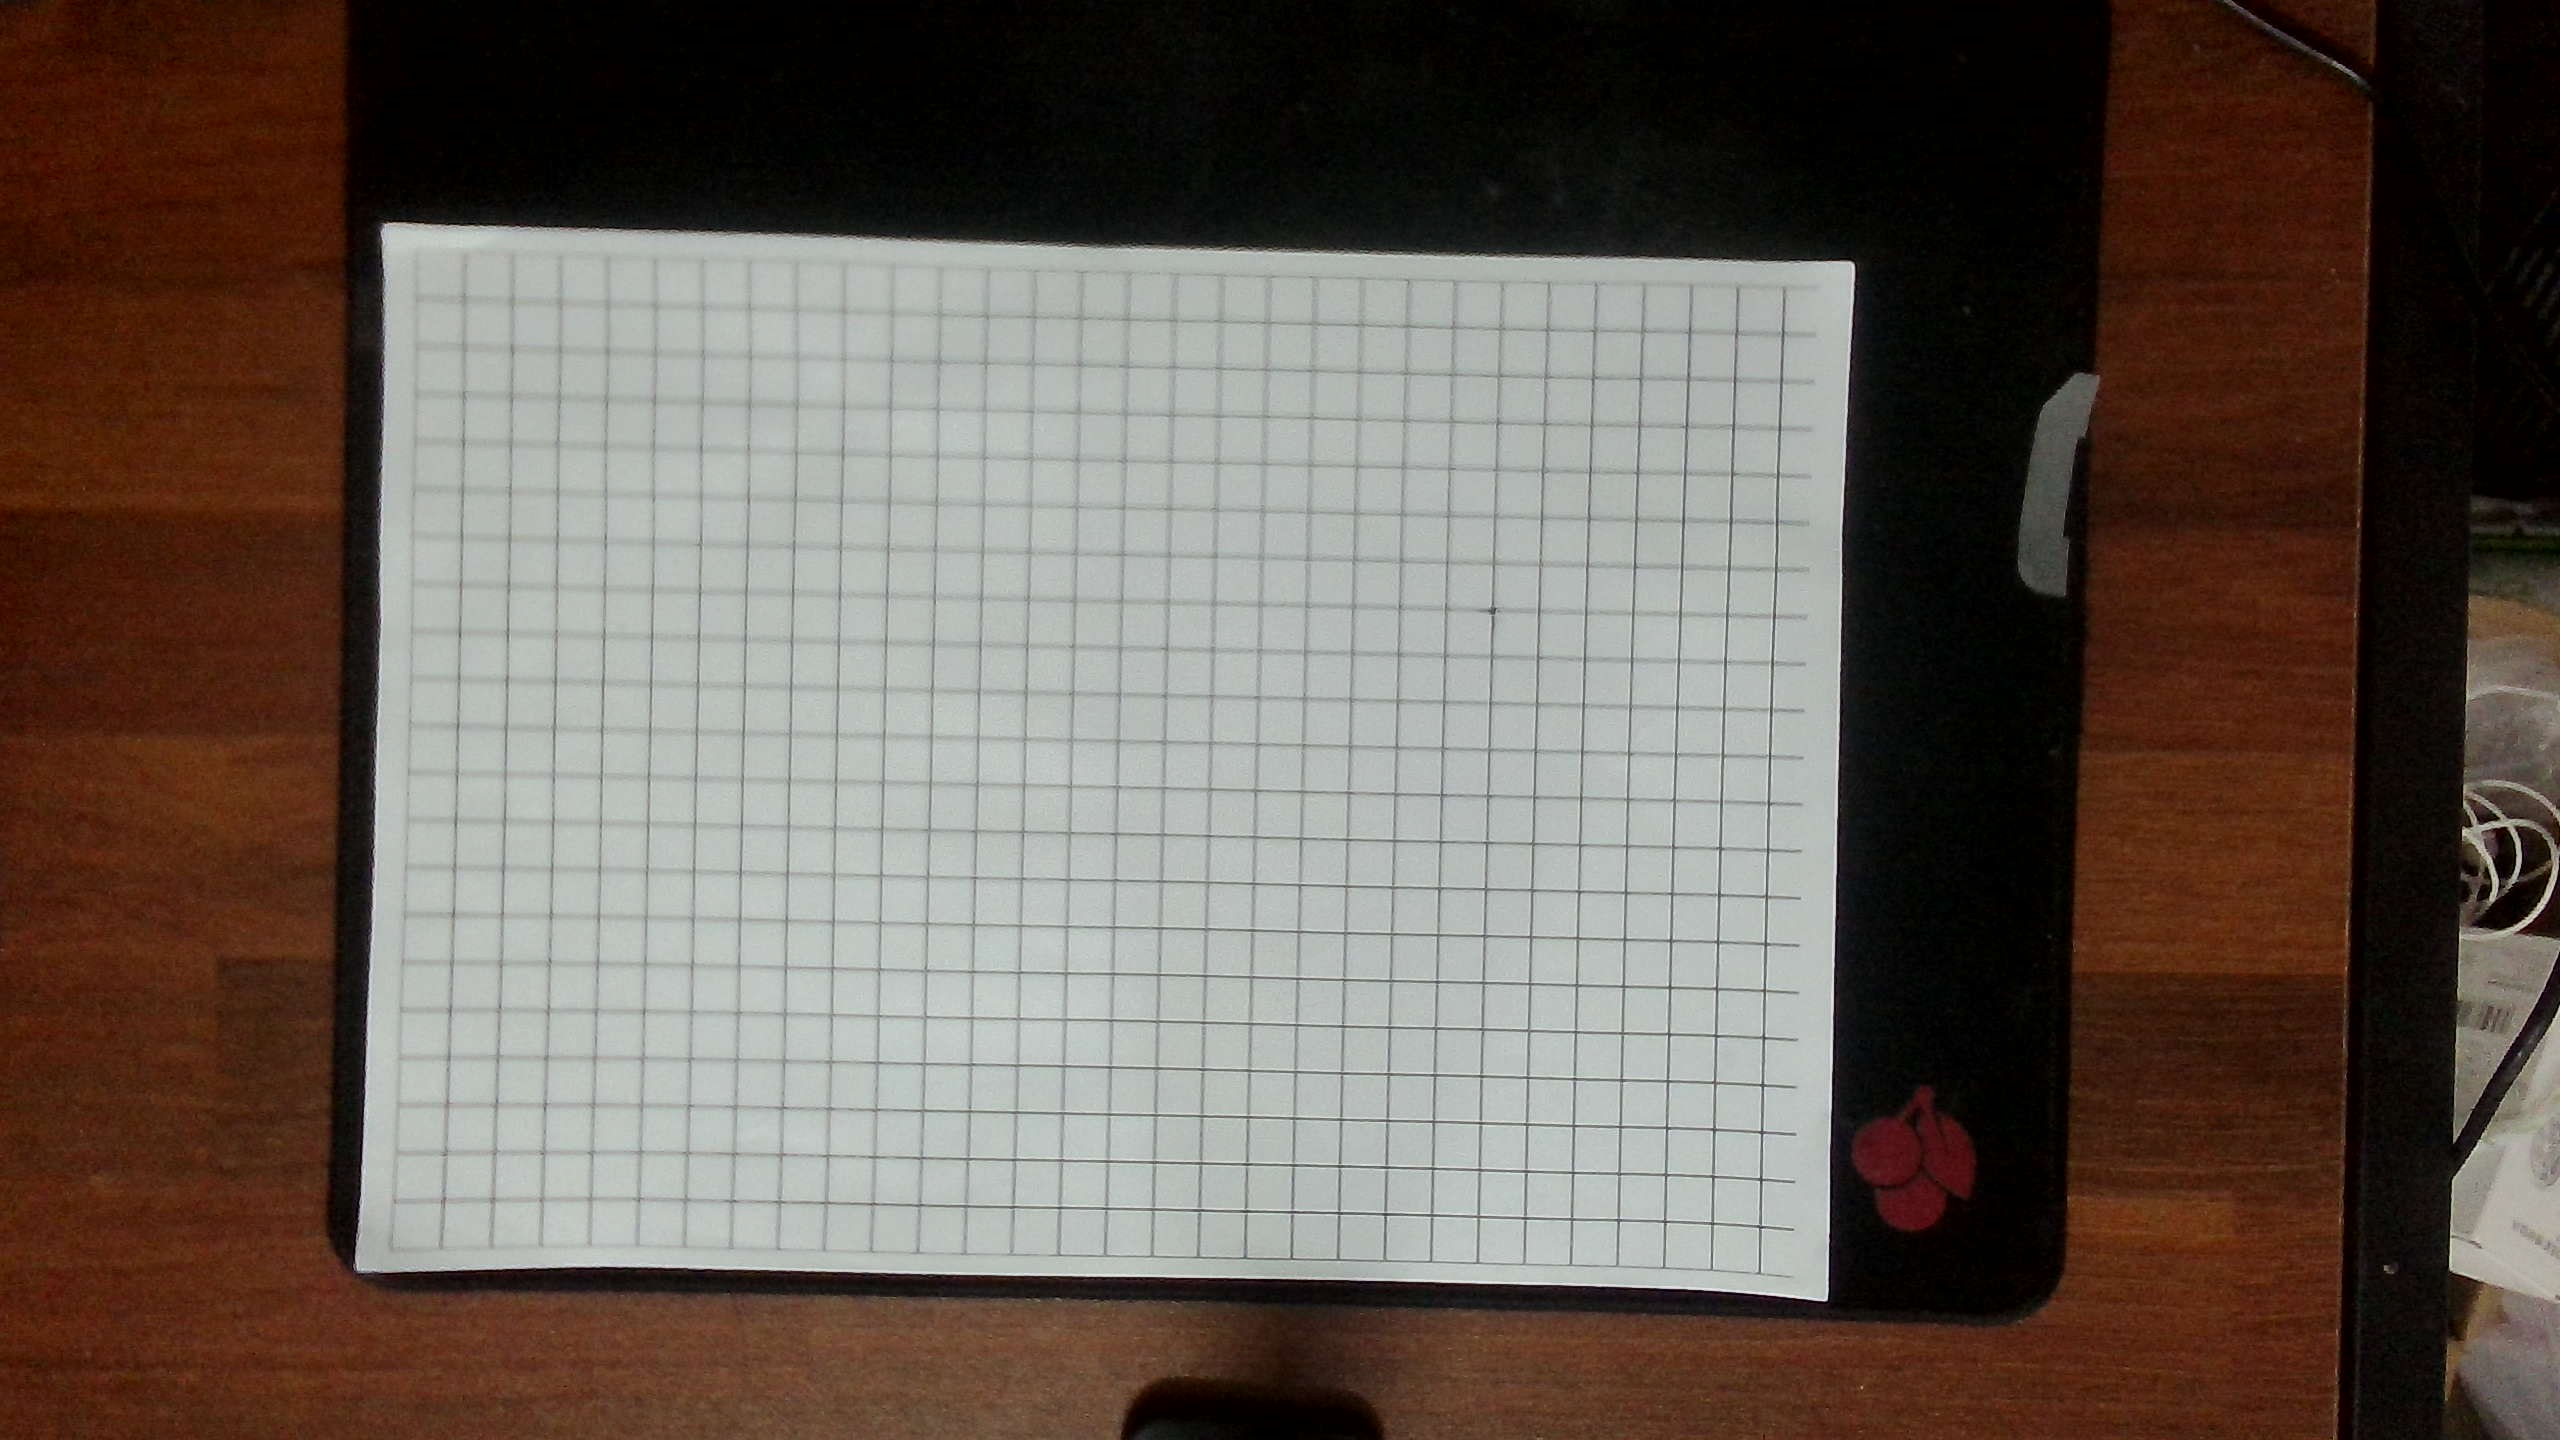
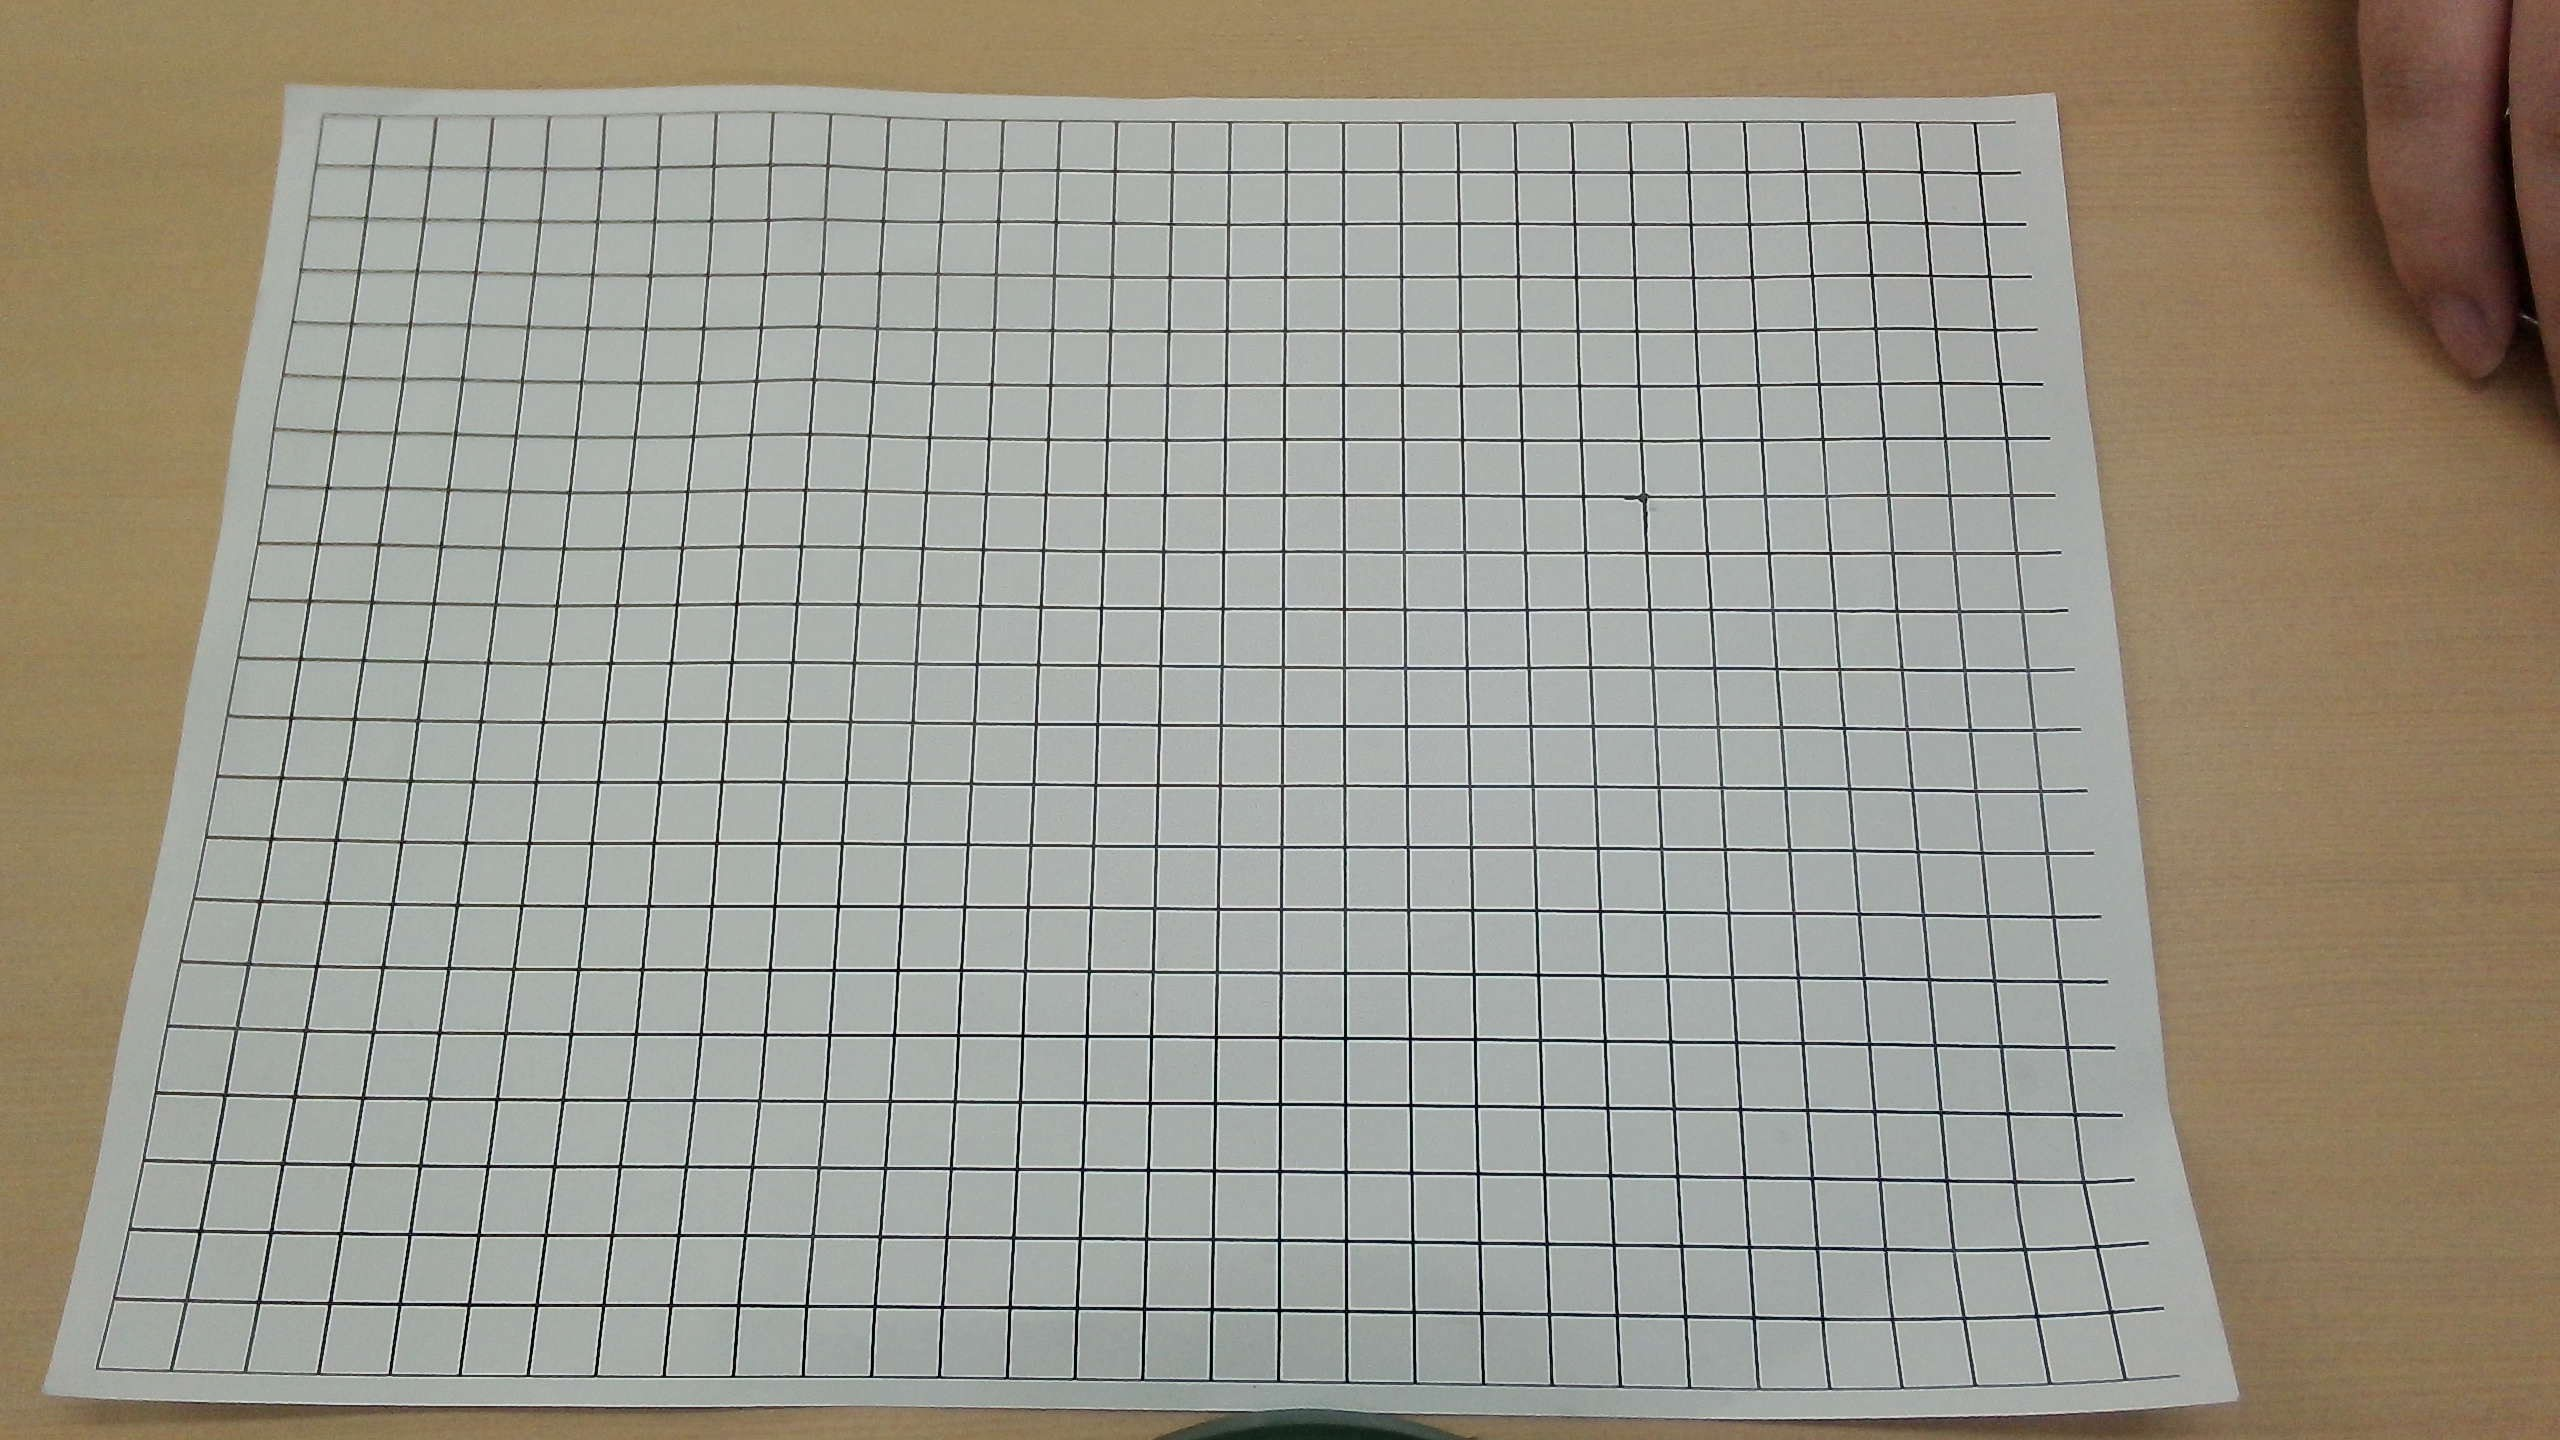
Add files via upload

diff --git a/mouse/camera/solve_pnp_pose.py b/mouse/camera/solve_pnp_pose.py
@@ -16,39 +16,53 @@ def main():
     # ===== 这里改成你自己点出来的像素点（建议至少 8~12 个）=====
     # 顺序必须和 object_points 一一对应
     image_points = np.array([
-        [603.0, 726.0],
-        [790.0, 731.0],
-        [978.0, 735.0],
-        [1210.0, 740.0],
+        # 第1列（x≈690）从下到上
+    [690, 1188],
+    [691, 998],
+    [695, 801],
+    [690, 606],
 
-        [606.0, 536.0],
-        [795.0, 545.0],
-        [985.0, 550.0],
-        [1216.0, 553.0],
+    # 第2列（x≈886）
+    [886, 1191],
+    [888, 995],
+    [890, 803],
+    [888, 610],
 
-        [608.0, 303.0],
-        [796.0, 305.0],
-        [986.0, 315.0],
-        [1223.0, 320.0],
+    # 第3列（x≈1081）
+    [1081, 1191],
+    [1081, 1000],
+    [1081, 803],
+    [1085, 610],
+
+    # 第4列（x≈1275）
+    [1275, 1193],
+    [1278, 1001],
+    [1276, 806],
+    [1278, 610],
     ], dtype=np.float32)
 
     # ===== 对应真实世界坐标（单位统一用 cm）=====
     # 这里示例是假设网格平面 z=0
     object_points = np.array([
-        [4.0, 11.0, 0.0],
-        [8.0, 11.0, 0.0],
-        [12.0, 11.0, 0.0],
-        [17.0, 11.0, 0.0],
+       [0, 0, 0],
+       [0, 4, 0],
+       [0, 8, 0],
+       [0, 12, 0],
 
-        [4.0, 15.0, 0.0],
-        [8.0, 15.0, 0.0],
-        [12.0, 15.0, 0.0],
-        [17.0, 15.0, 0.0],
+       [4, 0, 0],
+       [4, 4, 0],
+       [4, 8, 0],
+       [4, 12, 0],
 
-        [4.0, 20.0, 0.0],
-        [8.0, 20.0, 0.0],
-        [12.0, 20.0, 0.0],
-        [17.0, 20.0, 0.0],
+       [8, 0, 0],
+       [8, 4, 0],
+       [8, 8, 0],
+       [8, 12, 0],
+
+       [12, 0, 0],
+       [12, 4, 0],
+       [12, 8, 0],
+       [12, 12, 0],
     ], dtype=np.float32)
 
     if len(image_points) != len(object_points):

diff --git a/mouse/camera/compute_homography.py b/mouse/camera/compute_homography.py
@@ -1,18 +1,54 @@
 import cv2
 import numpy as np
 
+# ===== 你点的12个像素点（替换这里）=====
 img_pts = np.array([
-    [418, 251],   # 左上
-    [391, 1246],  # 左下
-    [1785, 288],   # 右上
-    [1760, 1268]   # 右下
-], dtype=np.float32)
+        # 第1列（x≈690）从下到上
+    [690, 1188],
+    [691, 998],
+    [695, 801],
+    [690, 606],
 
+    # 第2列（x≈886）
+    [886, 1191],
+    [888, 995],
+    [890, 803],
+    [888, 610],
+
+    # 第3列（x≈1081）
+    [1081, 1191],
+    [1081, 1000],
+    [1081, 803],
+    [1085, 610],
+
+    # 第4列（x≈1275）
+    [1275, 1193],
+    [1278, 1001],
+    [1276, 806],
+    [1278, 610],
+    ], dtype=np.float32)
+
+# ===== 对应真实坐标（单位：cm）=====
 world_pts = np.array([
-    [0, 21],   # 左上
-    [0, 0],   # 左下
-    [29, 21],   # 右上
-    [29, 0]    # 右下
+    [0, 0, 0],
+    [0, 4, 0],
+    [0, 8, 0],
+    [0, 12, 0],
+
+    [4, 0, 0],
+    [4, 4, 0],
+    [4, 8, 0],
+    [4, 12, 0],
+
+    [8, 0, 0],
+    [8, 4, 0],
+    [8, 8, 0],
+    [8, 12, 0],
+
+    [12, 0, 0],
+    [12, 4, 0],
+    [12, 8, 0],
+    [12, 12, 0],
 ], dtype=np.float32)
 
 H, _ = cv2.findHomography(img_pts, world_pts)